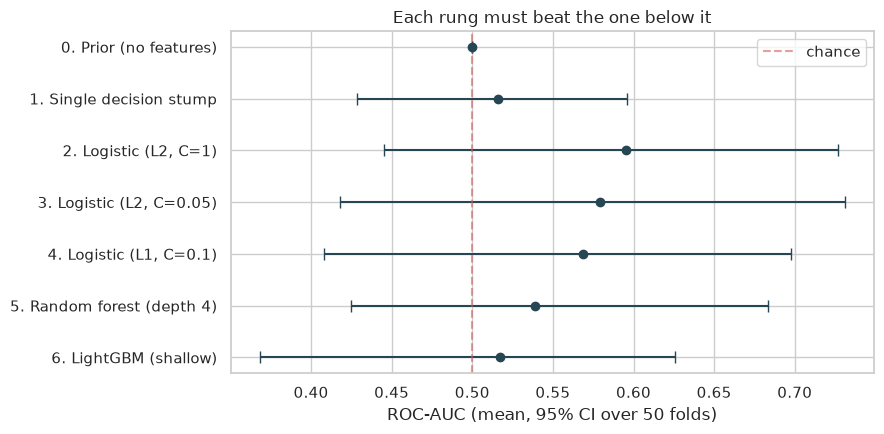
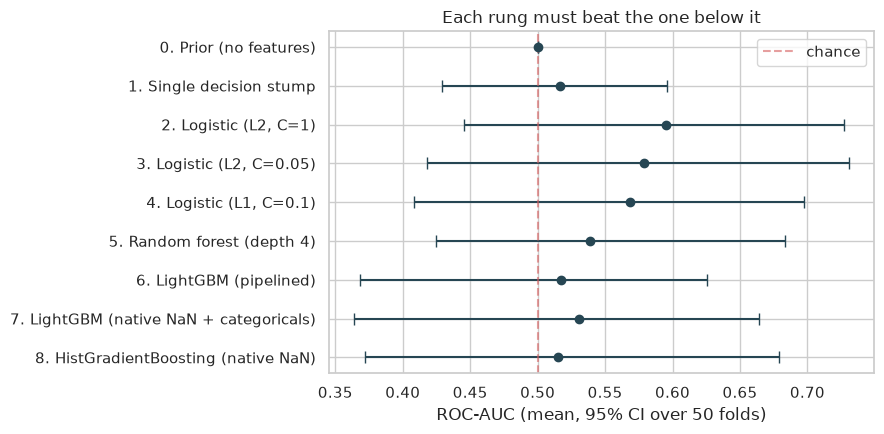
Give the boosted models native NaN and categorical handling
Fair challenge: LightGBM handles missing values and categoricals natively, so
routing it through the same SimpleImputer + OneHotEncoder as the linear models
handicaps it. It was receiving 934 NaNs median-filled away and 6 categoricals
expanded from 75 to 88 one-hot columns, losing both the missingness signal and
native categorical splits.

Added model.AsCategory (categories learned per fold, unseen levels become NaN,
which the booster routes like any other missing value) and three rungs:
LightGBM with native handling, HistGradientBoosting, and a tuned native LightGBM.

  6. LightGBM (pipelined)                 0.5170
  7. LightGBM (native NaN + categoricals) 0.5307
  8. HistGradientBoosting (native NaN)    0.5154
  9. LightGBM (native, tuned)             0.5405
  2. Logistic (L2, C=1)                   0.5954

Native handling is worth +0.014 and tuning a further +0.010, so the criticism was
correct — but the linear model still leads, and now it does so against a booster
that was given a fair attempt rather than a hobbled one.

Worth recording separately: GridSearchCV.best_score_ for the tuned booster reads
0.586, which looks near-parity. That is the score on the folds used to select the
hyperparameters. Re-scored on the ladder's independent folds it drops to 0.541.
Quoting a tuned model's best_score_ against another model's honest CV score is an
easy and invisible way to make the complex model look better than it is, so the
[…]

diff --git a/src/model.py b/src/model.py
@@ -13,9 +13,10 @@ from pathlib import Path
 
 import joblib
 import lightgbm as lgb
+from sklearn.base import BaseEstimator, TransformerMixin
 from sklearn.compose import ColumnTransformer, make_column_selector
 from sklearn.dummy import DummyClassifier
-from sklearn.ensemble import RandomForestClassifier
+from sklearn.ensemble import HistGradientBoostingClassifier, RandomForestClassifier
 from sklearn.impute import SimpleImputer
 from sklearn.linear_model import LogisticRegression
 from sklearn.metrics import f1_score
@@ -34,6 +35,11 @@ MODELS_DIR.mkdir(parents=True, exist_ok=True)
 CV = RepeatedStratifiedKFold(n_splits=5, n_repeats=10, random_state=42)
 INNER_CV = StratifiedKFold(5, shuffle=True, random_state=42)
 SEED = 42
+
+LGBM_PARAMS = dict(n_estimators=250, learning_rate=0.03, num_leaves=7, max_depth=3,
+                   min_child_samples=15, subsample=0.8, subsample_freq=1,
+                   colsample_bytree=0.7, reg_lambda=5.0, class_weight="balanced",
+                   random_state=SEED, verbose=-1)
 
 _BOOLISH = {"True", "False", "0", "1", "0.0", "1.0"}
 
@@ -92,6 +98,36 @@ def feature_names(fitted_pipe, X):
     return list(fitted_pipe.named_steps["pre"].get_feature_names_out(X.columns))
 
 
+class AsCategory(BaseEstimator, TransformerMixin):
+    """Cast object columns to pandas `category`, leaving NaN intact.
+
+    Gradient boosters handle both natively and generally better than the
+    preprocessing in `_pipe`: missingness gets its own learned split direction
+    instead of being replaced by a median, and categoricals get native splits
+    instead of a one-hot expansion that fragments the feature.
+
+    Categories are learned on the training fold only. A level unseen in training
+    becomes NaN at transform time, which the booster routes like any other
+    missing value — the same guarantee `handle_unknown="ignore"` gives.
+    """
+
+    def fit(self, X, y=None):
+        self.columns_ = [c for c in X.columns if not pd.api.types.is_numeric_dtype(X[c])]
+        self.categories_ = {c: pd.Index(X[c].dropna().unique()) for c in self.columns_}
+        return self
+
+    def transform(self, X):
+        X = X.copy()
+        for c in self.columns_:
+            X[c] = pd.Categorical(X[c], categories=self.categories_[c])
+        return X
+
+
+def _native_pipe(clf):
+    """Booster with raw NaN and native categoricals — no imputation, no one-hot."""
+    return Pipeline([("cat", AsCategory()), ("clf", clf)])
+
+
 def model_ladder():
     """Rungs in increasing flexibility. Rung 0 uses no features at all."""
     return [
@@ -113,12 +149,15 @@ def model_ladder():
          _pipe(RandomForestClassifier(n_estimators=400, max_depth=4, min_samples_leaf=8,
                                       class_weight="balanced", random_state=SEED),
                scale=False)),
-        ("6. LightGBM (shallow)",
-         _pipe(lgb.LGBMClassifier(n_estimators=250, learning_rate=0.03, num_leaves=7,
-                                  max_depth=3, min_child_samples=15, subsample=0.8,
-                                  subsample_freq=1, colsample_bytree=0.7, reg_lambda=5.0,
-                                  class_weight="balanced", random_state=SEED, verbose=-1),
-               scale=False)),
+        ("6. LightGBM (pipelined)",
+         _pipe(lgb.LGBMClassifier(**LGBM_PARAMS), scale=False)),
+        ("7. LightGBM (native NaN + categoricals)",
+         _native_pipe(lgb.LGBMClassifier(**LGBM_PARAMS))),
+        ("8. HistGradientBoosting (native NaN)",
+         _pipe(HistGradientBoostingClassifier(
+             max_depth=3, max_leaf_nodes=7, learning_rate=0.03, max_iter=250,
+             min_samples_leaf=15, l2_regularization=5.0,
+             class_weight="balanced", random_state=SEED), scale=False)),
     ]
 
 
@@ -137,10 +176,9 @@ def tune_lightgbm(X, y, cv=INNER_CV):
             "clf__max_depth": [2, 3, 4],
             "clf__learning_rate": [0.02, 0.05],
             "clf__reg_lambda": [1.0, 5.0, 20.0]}
-    base = _pipe(lgb.LGBMClassifier(n_estimators=300, class_weight="balanced",
-                                    subsample=0.8, subsample_freq=1, colsample_bytree=0.7,
-                                    min_child_samples=15, random_state=SEED, verbose=-1),
-                 scale=False)
+    base = _native_pipe(lgb.LGBMClassifier(
+        n_estimators=300, class_weight="balanced", subsample=0.8, subsample_freq=1,
+        colsample_bytree=0.7, min_child_samples=15, random_state=SEED, verbose=-1))
     return GridSearchCV(base, grid, scoring="roc_auc", cv=cv).fit(X, y)
 
 

diff --git a/README.md b/README.md
@@ -146,12 +146,30 @@ Model ladder, repeated stratified CV (5 folds × 10 repeats, identical folds):
 | 3 | Logistic (L2, C=0.05) | 0.579 | [0.42, 0.73] |
 | 4 | Logistic (L1, C=0.1) | 0.569 | [0.41, 0.70] |
 | 5 | Random forest (depth 4) | 0.539 | [0.42, 0.68] |
-| 6 | LightGBM (shallow) | 0.517 | [0.37, 0.63] |
+| 6 | LightGBM (pipelined) | 0.517 | [0.37, 0.63] |
+| 7 | LightGBM (native NaN + categoricals) | 0.531 | [0.36, 0.66] |
+| 8 | HistGradientBoosting (native NaN) | 0.515 | [0.37, 0.68] |
+| 9 | LightGBM (native, tuned) | 0.541 | [0.37, 0.70] |
 
-**Selected: L2 logistic regression.** Both tree ensembles score below it — at
-~0.8 events per variable the ensembles have far more capacity than 59 positives
-can support, and regularisation is worth more than boosting. A 54-point LightGBM
-grid search does not close the gap.
+**Giving the boosters a fair shot.** Routing LightGBM through the same
+`SimpleImputer` + `OneHotEncoder` as the linear models handicaps it: gradient
+boosters learn a split direction for missingness rather than needing it filled,
+and take native categorical splits rather than a one-hot expansion that fragments
+the feature. Rung 7 passes raw `NaN` and pandas `category` dtype straight through.
+
+It helps — 0.517 → 0.531 — and a 54-point grid search adds a little more, to
+0.541. **It still does not beat a plain regularised linear model.**
+
+One methodological trap worth naming: `GridSearchCV.best_score_` for that tuned
+model reads **0.586**, which looks near-parity with logistic. That number is
+selection-inflated — it is the score on the very folds used to pick the
+hyperparameters. Re-scored on the ladder's independent folds it drops to 0.541.
+Comparing a tuned model's `best_score_` against another model's honest CV score
+is a common and invisible way to make the complex model look better than it is.
+
+**Selected: L2 logistic regression** — not because boosting was denied a fair
+attempt, but because it was given one and lost. At ~0.8 events per variable the
+ensembles have far more capacity than 59 positives can support.
 
 **Operating point** — threshold chosen out-of-fold, favouring recall because a
 missed churner costs more than a wasted outreach call:

diff --git a/docs/ASSUMPTIONS.md b/docs/ASSUMPTIONS.md
@@ -104,8 +104,22 @@ Each decision below is backed by a check in the notebooks or a gate in
   feature types.
 
 - **Model selection is a ladder**: prior → stump → logistic (L2, two strengths) →
-  logistic (L1) → random forest → LightGBM, on identical folds. L1 logistic leads
-  at 0.545, and no rung is distinguishable from chance.
+  logistic (L1) → random forest → LightGBM → LightGBM with native NaN and
+  categorical handling → HistGradientBoosting → tuned LightGBM, all on identical
+  folds. L2 logistic leads at 0.595.
+
+- **The boosters are not handicapped.** Routing LightGBM through the linear
+  models' `SimpleImputer` + `OneHotEncoder` would deny it two things it does well:
+  learning a split direction for missingness, and native categorical splits.
+  Rung 7 passes raw `NaN` and pandas `category` dtype through instead
+  (`model.AsCategory`, with categories learned per fold). That is worth +0.014,
+  and tuning a further +0.010 — still short of the linear model.
+
+- **Tuned scores are re-scored on the ladder's folds.** `GridSearchCV.best_score_`
+  for the tuned booster reads 0.586, but that is the score on the folds used to
+  select the hyperparameters. On independent folds it is 0.541. Quoting the
+  former against another model's honest CV score is a common way to make the
+  complex model look better than it is.
 
 - **Significance is tested, not assumed.** A 300-shuffle permutation test gives
   p = 0.25 at the 30-day buffer — the model does not beat chance.
